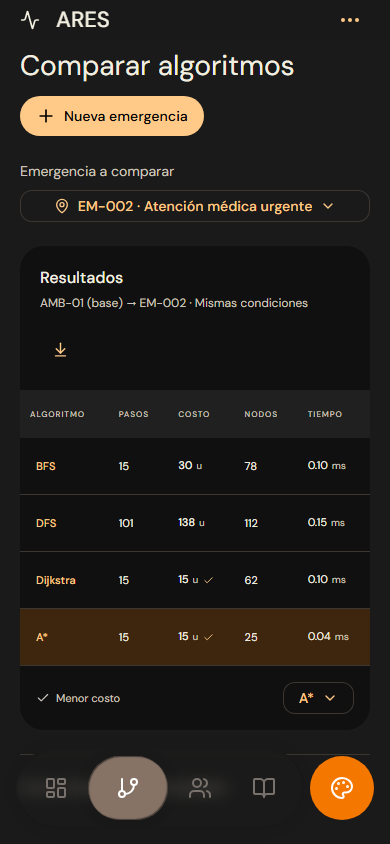
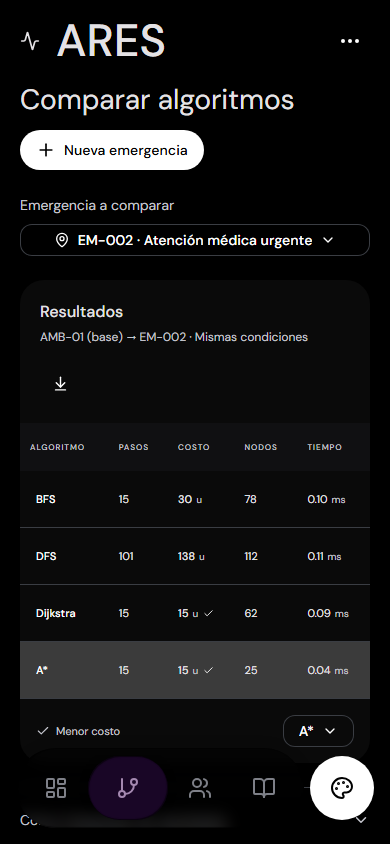
feat: update theme settings to OLED dark mode and enhance navigation style

diff --git a/frontend/tests/e2e/simulation.spec.ts b/frontend/tests/e2e/simulation.spec.ts
@@ -267,20 +267,28 @@ test('Steps validates input, preserves values when going back and shows a review
   expect((await (await request.get('/api/state')).json()).incidents).toHaveLength(4);
 });
 
-test('ThemePicker and the seven-style Nav use the kit runtime and persist settings', async ({
+test('Dock stays fixed and OLED defaults respect saved theme preferences', async ({
   page,
 }) => {
+  await expect(page.locator('html')).toHaveAttribute('data-mk-theme', 'oled');
+  await expect(page.locator('html')).toHaveAttribute('data-mk-mode', 'dark');
+  await expect(page.locator('body')).toHaveCSS('background-color', 'rgb(0, 0, 0)');
+  await expect(page.locator('nav.mk-nav')).toHaveClass(/mk-nav--dock/);
+  await page.evaluate(() => localStorage.setItem('ares-nav', 'tasks'));
   await page.emulateMedia({ reducedMotion: 'reduce' });
   await page.reload();
+  await expect(page.locator('nav.mk-nav')).toHaveClass(/mk-nav--dock/);
   await page.getByRole('button', { name: 'Personalizar interfaz' }).click();
+  await expect(page.getByLabel('Estilo de navegación', { exact: true })).toHaveCount(0);
   await expect(page.locator('.mk-theme-picker .mk-swatch')).toHaveCount(6);
   await page.locator('.mk-swatch[data-mk-swatch="blue"]').click();
   await expect(page.locator('html')).toHaveAttribute('data-mk-theme', 'blue');
-  await page.getByLabel('Estilo de navegación', { exact: true }).selectOption('tasks');
-  await expect(page.locator('nav.mk-nav')).toHaveClass(/mk-nav--tasks/);
+  await page.getByRole('tab', { name: 'Claro', exact: true }).click();
+  await expect(page.locator('html')).toHaveAttribute('data-mk-mode', 'light');
   await page.screenshot({ path: path.resolve('../docs/ares-appearance.png'), fullPage: true });
   await page.getByRole('button', { name: 'Listo', exact: true }).click();
   await page.reload();
   await expect(page.locator('html')).toHaveAttribute('data-mk-theme', 'blue');
-  await expect(page.locator('nav.mk-nav')).toHaveClass(/mk-nav--tasks/);
+  await expect(page.locator('html')).toHaveAttribute('data-mk-mode', 'light');
+  await expect(page.locator('nav.mk-nav')).toHaveClass(/mk-nav--dock/);
 });

diff --git a/frontend/src/App.tsx b/frontend/src/App.tsx
@@ -1,6 +1,5 @@
 import { useEffect, useRef, useState } from 'react';
 import { Dialog, Menu, Nav, Toaster, useCascade, useTheme } from '@yewdiel21/motion-kit/react';
-import type { NavStyle } from '@yewdiel21/motion-kit/react';
 import {
   Activity,
   ArrowDownToLine,
@@ -38,7 +37,6 @@ const headings = {
   agents: 'Unidades',
   guide: 'Guía del proyecto',
 };
-const navStyles: NavStyle[] = ['guapa', 'tasks', 'bonita', 'clasica', 'melon', 'dock', 'tunnel'];
 
 export default function App() {
   const [tab, setTab] = useState<Tab>('operations');
@@ -48,17 +46,10 @@ export default function App() {
   const [formVersion, setFormVersion] = useState(0);
   const [position, setPosition] = useState<Point | null>(null);
   const [nextScenario, setNextScenario] = useState('urban');
-  const [navStyle, setNavStyle] = useState<NavStyle>(() => {
-    const stored = localStorage.getItem('ares-nav') as NavStyle;
-    return navStyles.includes(stored) ? stored : 'guapa';
-  });
   const theme = useTheme();
   const content = useRef<HTMLDivElement>(null);
   const simulation = useSimulation(selected, notify);
   const { state, comparison, error, setRunning, busy, load, perform } = simulation;
-  useEffect(() => {
-    localStorage.setItem('ares-nav', navStyle);
-  }, [navStyle]);
   useEffect(() => {
     document.documentElement.dataset.theme = theme.resolved;
   }, [theme.resolved]);
@@ -208,7 +199,7 @@ export default function App() {
         </main>
         <Nav
           aria-label="Navegación principal"
-          navStyle={navStyle}
+          navStyle="dock"
           accent
           items={pages}
           active={tab}
@@ -225,7 +216,7 @@ export default function App() {
               <span className="mk-nav__name">ARES</span>
             </button>
           }
-          actions={<AppearanceDialog navStyle={navStyle} onNavStyle={setNavStyle} />}
+          actions={<AppearanceDialog />}
         />
       </div>
       <Toaster labels={{ dismiss: 'Cerrar aviso' }} />

diff --git a/frontend/src/components/AppearanceDialog.tsx b/frontend/src/components/AppearanceDialog.tsx
@@ -1,15 +1,8 @@
 import { Dialog, ThemePicker, useTheme } from '@yewdiel21/motion-kit/react';
-import type { NavStyle } from '@yewdiel21/motion-kit/react';
 import { Palette, X } from 'lucide-react';
 import { SegmentedControl } from './KitControls';
 
-export default function AppearanceDialog({
-  navStyle,
-  onNavStyle,
-}: {
-  navStyle: NavStyle;
-  onNavStyle: (style: NavStyle) => void;
-}) {
+export default function AppearanceDialog() {
   const theme = useTheme();
   return (
     <Dialog.Root>
@@ -58,25 +51,6 @@ export default function AppearanceDialog({
                 ]}
               />
             </div>
-            <label className="mk-field">
-              <span className="mk-field__label">Estilo de navegación</span>
-              <select
-                aria-label="Estilo de navegación"
-                value={navStyle}
-                onChange={(event) => onNavStyle(event.target.value as NavStyle)}
-              >
-                <option value="guapa">Guapa · superficie y chips</option>
-                <option value="tasks">Tasks · riel de acciones</option>
-                <option value="bonita">Bonita · píldoras</option>
-                <option value="clasica">Clásica · barra lateral</option>
-                <option value="melon">Melon · superficie tonal</option>
-                <option value="dock">Dock · barra flotante</option>
-                <option value="tunnel">Tunnel · tipografía</option>
-              </select>
-              <span className="mk-field__hint">
-                Los siete estilos pertenecen al componente Nav del kit.
-              </span>
-            </label>
           </div>
         </Dialog.Body>
         <Dialog.Footer>

diff --git a/frontend/vite.config.ts b/frontend/vite.config.ts
@@ -1,6 +1,6 @@
 import { defineConfig } from 'vite';
 import react from '@vitejs/plugin-react';
-import { MK_THEME_HEAD_SCRIPT } from '@yewdiel21/motion-kit/theme';
+import { themeHeadScript } from '@yewdiel21/motion-kit/theme';
 import { MK_HEAD_SCRIPT } from '@yewdiel21/motion-kit';
 
 export default defineConfig({
@@ -10,7 +10,11 @@ export default defineConfig({
       name: 'motion-kit-theme',
       transformIndexHtml() {
         return [
-          { tag: 'script', children: MK_THEME_HEAD_SCRIPT, injectTo: 'head-prepend' },
+          {
+            tag: 'script',
+            children: themeHeadScript({ default: 'oled', mode: 'dark' }),
+            injectTo: 'head-prepend',
+          },
           { tag: 'script', children: MK_HEAD_SCRIPT, injectTo: 'head-prepend' },
         ];
       },

diff --git a/frontend/index.html b/frontend/index.html
@@ -1,9 +1,9 @@
 <!doctype html>
-<html lang="es" data-mk-theme="orange">
+<html lang="es" data-mk-theme="oled" data-mk-mode="dark">
   <head>
     <meta charset="UTF-8" />
     <meta name="viewport" content="width=device-width, initial-scale=1.0" />
-    <meta name="theme-color" content="#f7f8fa" />
+    <meta name="theme-color" content="#000000" />
     <meta name="description" content="ARES. Simulador multiagente inteligente para la gestión de emergencias y la comparación de algoritmos de búsqueda." />
     <link rel="icon" type="image/svg+xml" href="/favicon.svg" />
     <title>ARES · Centro de operaciones</title>

diff --git a/frontend/src/main.tsx b/frontend/src/main.tsx
@@ -10,7 +10,7 @@ import './styles.css';
 
 ReactDOM.createRoot(document.getElementById('root')!).render(
   <React.StrictMode>
-    <ThemeProvider defaultTheme="orange">
+    <ThemeProvider defaultTheme="oled" mode="dark">
       <App />
     </ThemeProvider>
   </React.StrictMode>,

diff --git a/README.md b/README.md
@@ -111,7 +111,7 @@ Los patrones empleados están explicados en [Arquitectura](docs/ARQUITECTURA.md)
 
 Instalados `@yewdiel21/motion-kit` **0.9.1** y GSAP **3.15.0**, fijados mediante `package-lock.json`. Integración basada en la skill y documentación incluidas en el paquete:
 
-- `Nav` dentro de `.mk-shell`: navegación original del kit, con sus siete estilos y barra de cristal en móvil.
+- `Nav` dentro de `.mk-shell`: Dock como único estilo de navegación, con la barra de cristal nativa del kit en móvil.
 - `Menu.Root/Trigger/Content/Item/Separator`: emergencia a comparar, escenarios, velocidad, planificador y opciones del escenario, con teclado y retorno del foco.
 - `Dialog.Root/Trigger/Content/Header/Title/Body/Footer/Close`: registro de emergencias, reinicio y apariencia, conservando formas y transiciones originales.
 - `Steps`, `Steps.Step` y `Steps.Counter`: registro en tres etapas, con validación, regreso y revisión antes de enviar a Python.
@@ -120,7 +120,7 @@ Instalados `@yewdiel21/motion-kit` **0.9.1** y GSAP **3.15.0**, fijados mediante
 - `FlipGroup`: actualización de la lista de emergencias.
 - `useCascade`: entrada de cabecera.
 - `useDetails`: bitácora y métricas, explicaciones de algoritmos, detalles de agentes y guía, plegados de inicio.
-- `ThemeProvider`, `ThemePicker` y `useTheme`: seis paletas seleccionables, modo claro/oscuro/sistema y persistencia.
+- `ThemeProvider`, `ThemePicker` y `useTheme`: OLED oscuro por defecto, seis paletas seleccionables, modo claro/oscuro/sistema y persistencia.
 - `useTabs` y `.mk-segmented`: herramientas del mapa y filtros, con indicador animado y navegación por teclado.
 - `.mk-button`, `.mk-field`, `.mk-switch`, `.mk-chip` y `.mk-glass`: controles y superficies nativos del kit.
 - GSAP `matchMedia`: dirección animada sobre rutas activas, con limpieza al desmontar.

diff --git a/docs/ARQUITECTURA.md b/docs/ARQUITECTURA.md
@@ -107,7 +107,7 @@ Se siguió `node_modules/@yewdiel21/motion-kit/skills/motion-kit/SKILL.md`, más
 
 La integración usa **componentes compuestos** para los diálogos: `Dialog.Root` comparte estado, `Trigger` conserva el origen y `Content/Header/Title/Body/Footer/Close` representan las partes. El kit administra el foco nativo, Escape, backdrop, apertura morph y limpieza del motor. React controla si el diálogo muestra el formulario o el reinicio. Se conserva el radio y la presentación originales, incluidos los diálogos de pantalla completa en móvil.
 
-`Nav` aporta los siete estilos originales, seleccionables en el diálogo de apariencia, y su barra de cristal en móvil. `ThemeProvider` establece el tema naranja inicial; `ThemePicker` ofrece seis paletas y `useTheme` conmuta claro/oscuro/sistema. Las preferencias se persisten mediante el runtime del kit. Los scripts de tema y seguridad de entradas se insertan en el HTML desde Vite antes del montaje.
+`Nav` usa Dock como único estilo, con su barra de cristal nativa en móvil. El diálogo de apariencia permite personalizar la paleta y el modo de pantalla. `ThemeProvider` establece OLED oscuro por defecto; `ThemePicker` ofrece seis paletas y `useTheme` conmuta claro/oscuro/sistema. Las preferencias de tema guardadas se respetan mediante el runtime del kit. El HTML y el script de tema comparten los valores iniciales para aplicarlos antes del montaje. Los scripts de tema y seguridad de entradas se insertan en el HTML desde Vite.
 
 `KitControls.tsx` contiene adaptadores controlados de los componentes originales: `SelectMenu` compone `Menu`, `SegmentedControl` conecta `useTabs` y `ControlSwitch` usa `.mk-switch`. No implementan motores de animación alternativos. Los campos y botones usan `.mk-field` y `.mk-button` con sus variantes originales.
 

diff --git a/docs/COMPONENTES.md b/docs/COMPONENTES.md
@@ -4,12 +4,12 @@ La interfaz usa los componentes y CSS originales de `@yewdiel21/motion-kit` 0.9.
 
 | Componente o control del kit | Uso real | Archivo principal |
 |---|---|---|
-| `.mk-shell`, `Nav` | Armazón de la aplicación, página activa, siete estilos y barra móvil | `frontend/src/App.tsx` |
+| `.mk-shell`, `Nav` | Armazón de la aplicación, página activa, Dock fijo y barra móvil nativa | `frontend/src/App.tsx` |
 | `Menu.*` | Emergencia a comparar, escenarios, velocidad, planificador y opciones de exportación/reinicio | `components/KitControls.tsx`, `pages/Algorithms.tsx`, `App.tsx` |
 | `Dialog.*` | Emergencias, reinicio y apariencia; encabezado, cuerpo, pie y foco nativo | `components/IncidentForm.tsx`, `ScenarioDialog.tsx`, `AppearanceDialog.tsx` |
 | `Steps`, `Steps.Step`, `Steps.Counter` | Flujo de tres etapas con regreso, validación y revisión antes de enviar | `components/IncidentForm.tsx` |
 | `ThemePicker` | Seis paletas originales, sin valores de color duplicados | `components/AppearanceDialog.tsx` |
-| `ThemeProvider`, `useTheme` | Tema, modo claro/oscuro/sistema y persistencia | `main.tsx`, `AppearanceDialog.tsx` |
+| `ThemeProvider`, `useTheme` | OLED oscuro por defecto, modo claro/oscuro/sistema y persistencia | `main.tsx`, `AppearanceDialog.tsx` |
 | `useTabs`, `.mk-segmented` | Herramientas Explorar/Bloqueos/Ubicar y filtros Activas/Resueltas | `components/KitControls.tsx`, `pages/Operations.tsx` |
 | `.mk-field` | Descripción, prioridad y escenario de reinicio | Formularios |
 | `.mk-switch` | Visibilidad de rutas y nodos | `components/KitControls.tsx` |

diff --git a/docs/PRUEBAS.md b/docs/PRUEBAS.md
@@ -44,7 +44,7 @@ npm run test:e2e
 | Menu de emergencia | Componente `dialog.mk-menu`, selección con Home/flecha/Enter, tabla de EM-002, retorno de foco y ausencia de select nativo |
 | Detalles progresivos | Métricas ocultas al inicio, apertura con teclado, datos actualizados tras un tick y explicación de los cuatro algoritmos |
 | Steps | Validación del primer campo, revisión final y preservación de valores al regresar |
-| ThemePicker y Nav | Seis paletas, selección de azul, estilo Tasks y persistencia tras recargar |
+| ThemePicker y Nav | OLED oscuro inicial, Dock fijo incluso con un estilo anterior guardado, seis paletas y persistencia de paleta y modo tras recargar |
 
 Todas las pruebas de navegador comprueban que no se produzcan errores JavaScript de página. El dashboard se capturó a 1440 × 1080; la captura completa puede ser más alta por el contenido vertical.
 
